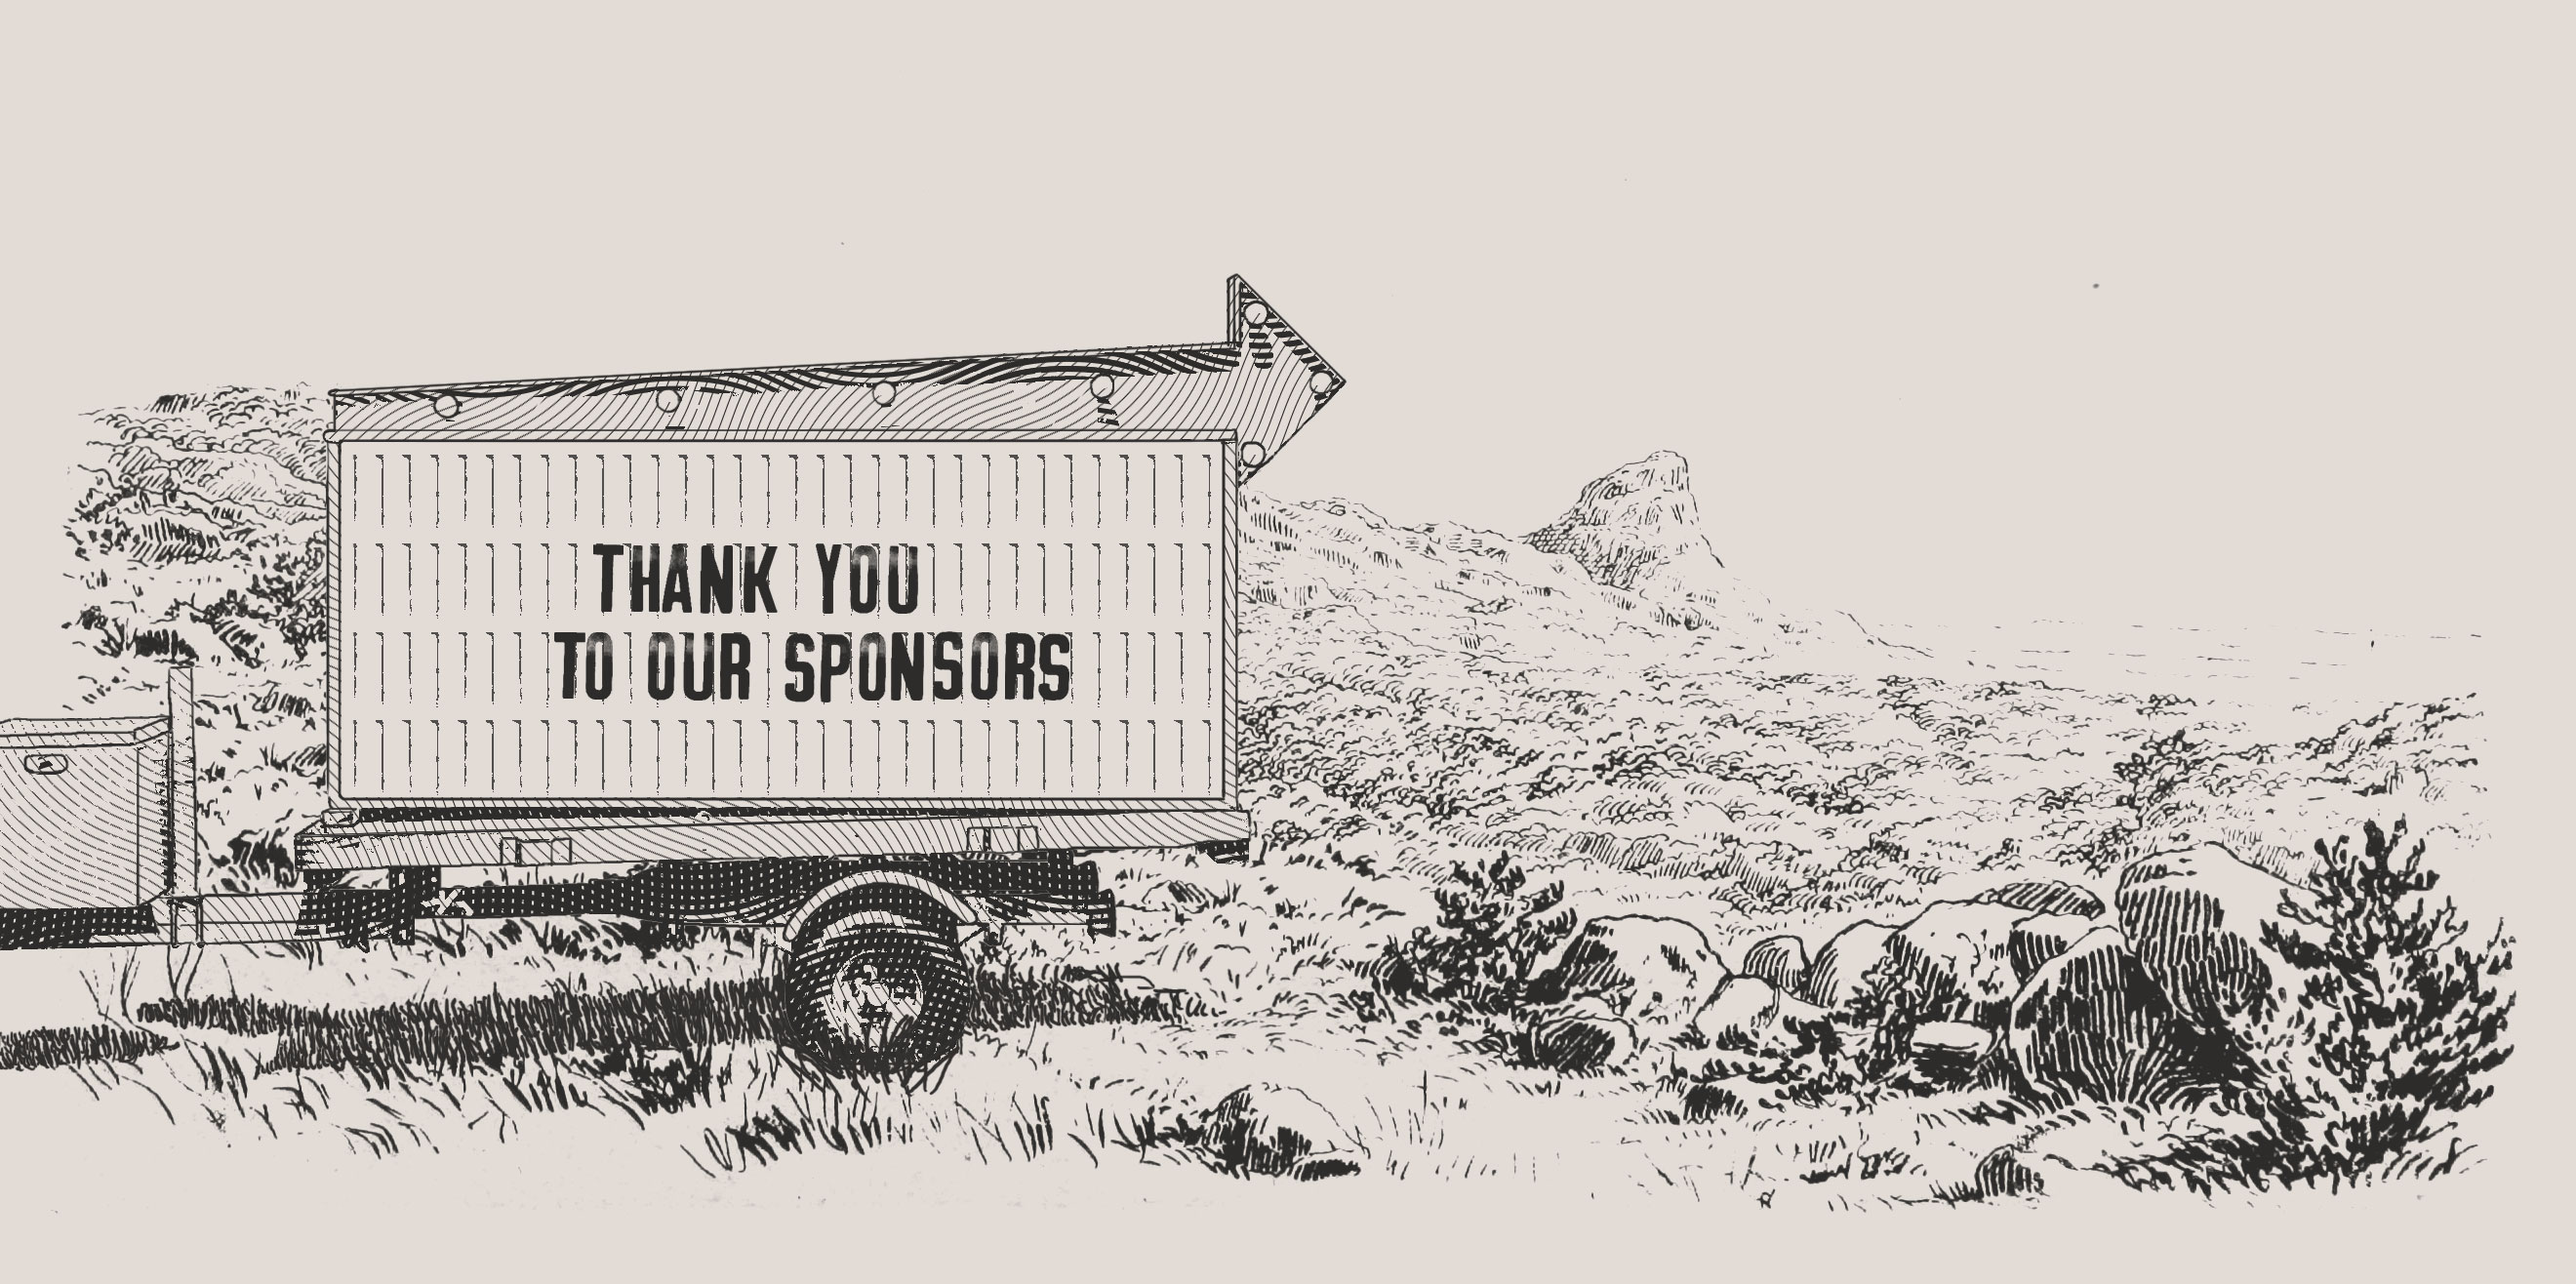
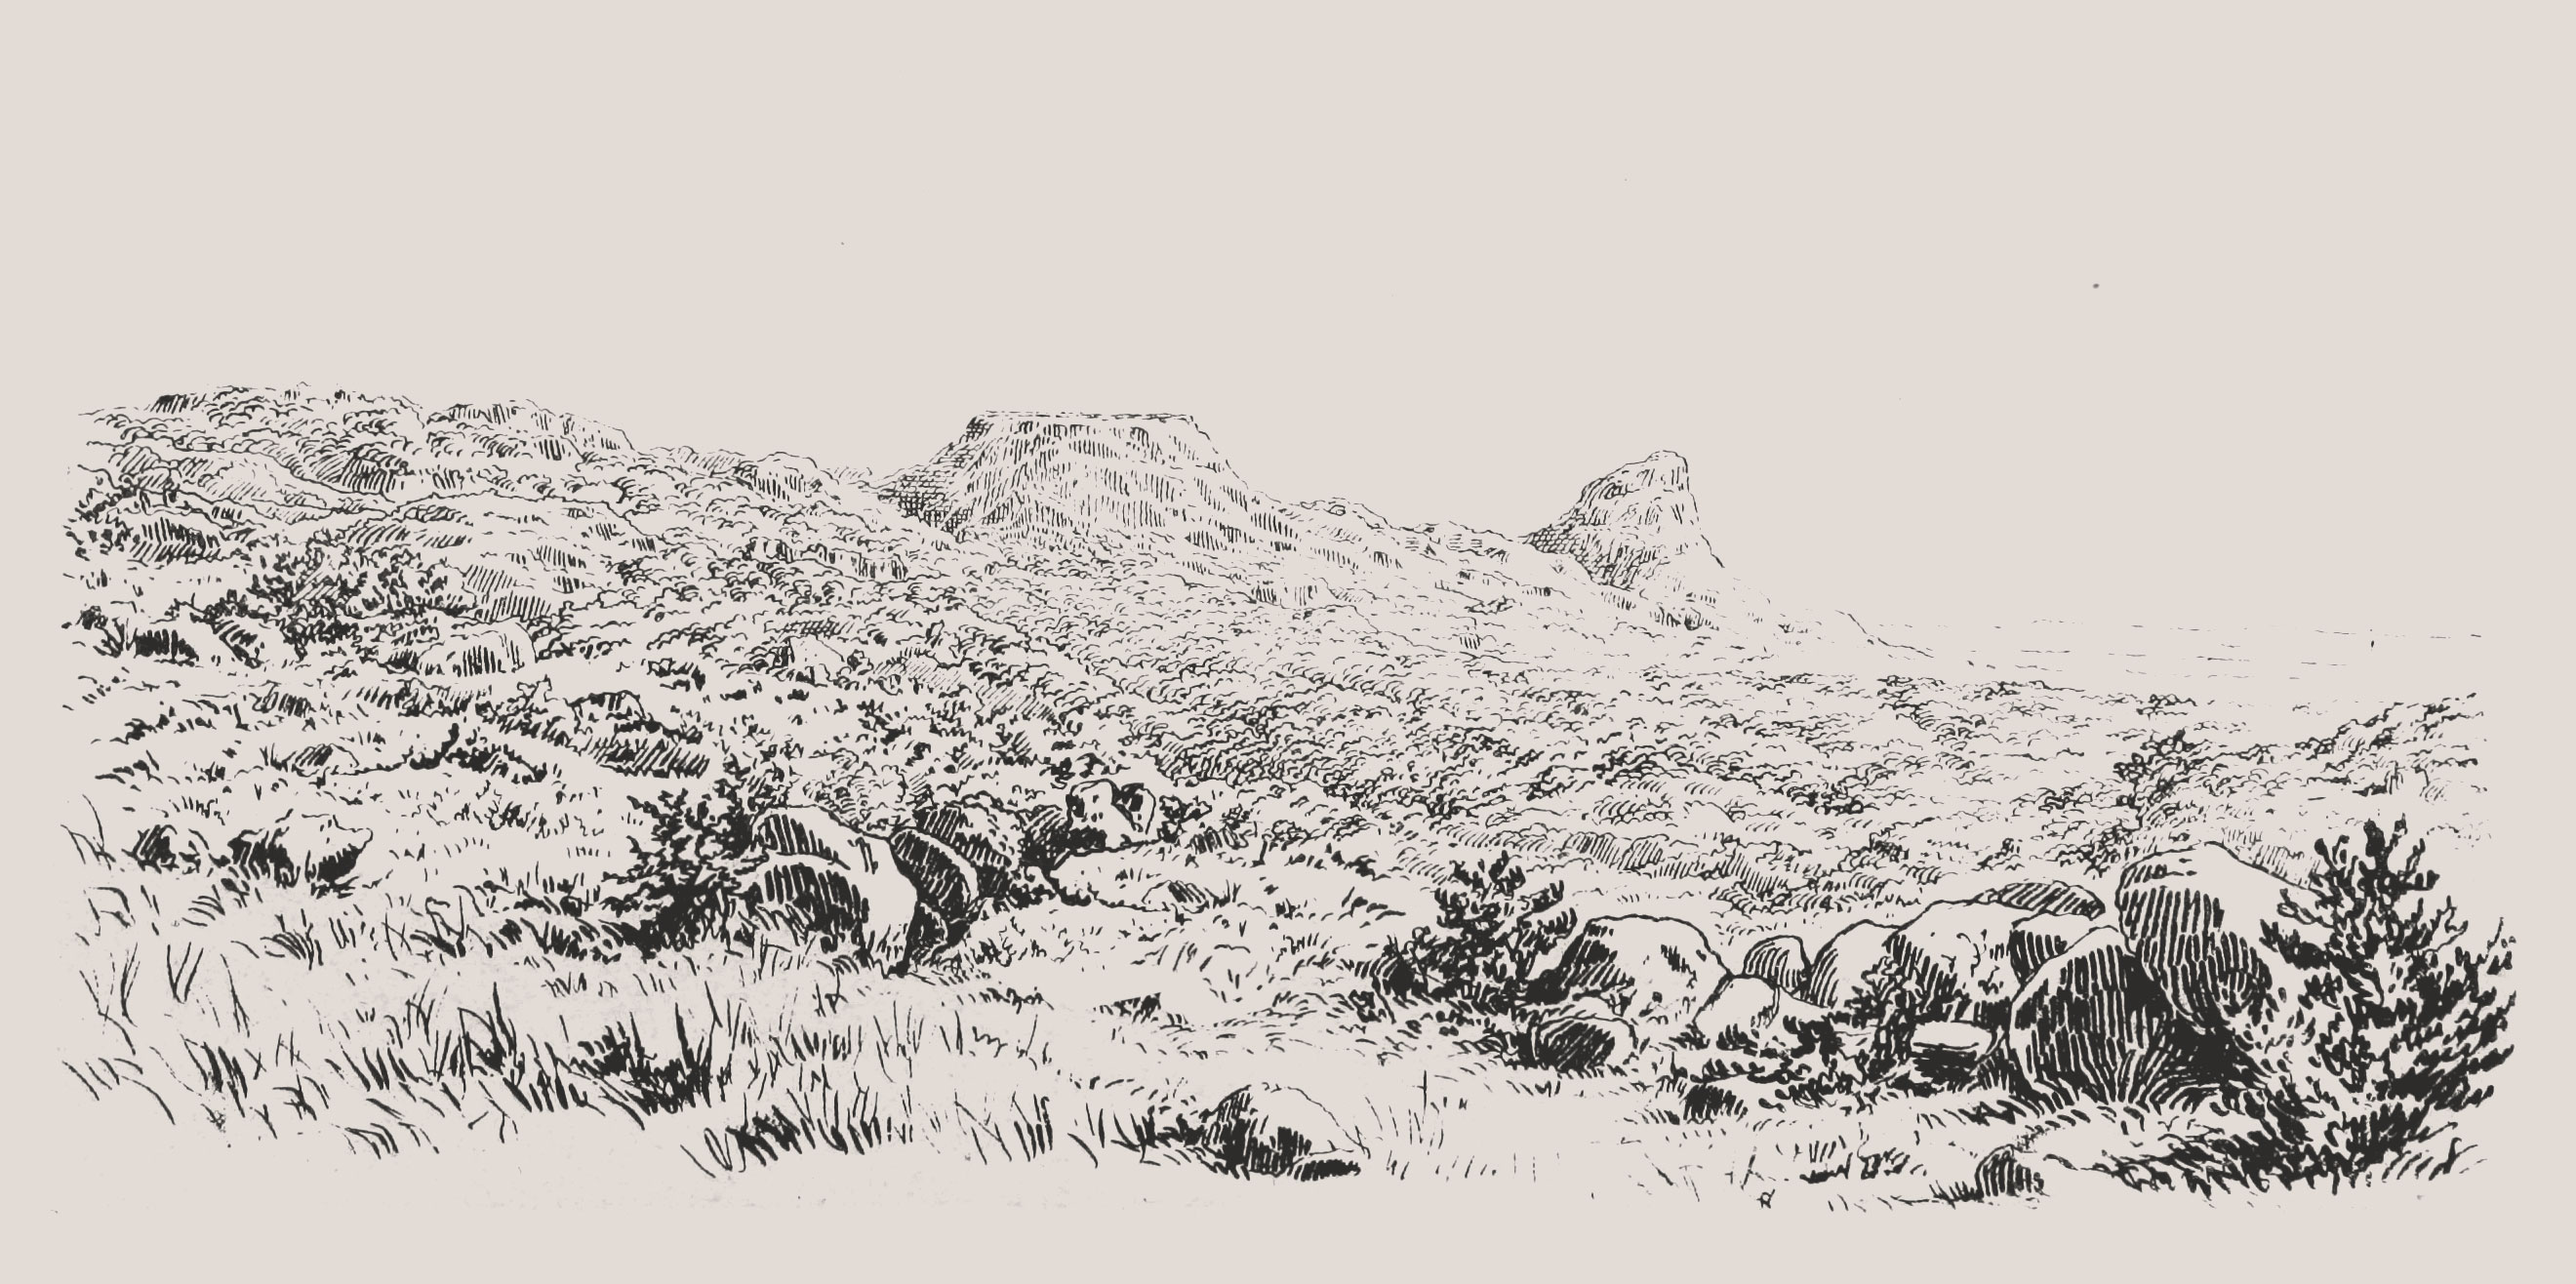
Adjust sponsors page to have separate trailer and make button responsive

Changed region(s): [[0.0, 0.2181, 0.528, 0.8723]]

diff --git a/src/components/Frame/Sponsors/index.js b/src/components/Frame/Sponsors/index.js
@@ -4,6 +4,7 @@ import Page from '../../Page';
 import Content from '../../Content';
 import SponsorGroup from './Components/SponsorGroup';
 import background from './sponsors-bg.jpg';
+import trailer from './thank-you-trailer.png';
 import rackspaceLogo from './logos/rackspace.png';
 import amazeeLogo from './logos/amazee-labs.png';
 import fourkitchensLogo from './logos/four-kitchens.png';
@@ -85,11 +86,14 @@ function Sponsors() {
 
   return (
     <Page name="sponsors" background={background} classes={['two-col']}>
-      <Content classes={['content--prospectus']}>
-        <Button
-          link="//2017.texascamp.org/sites/default/files/texas-camp-sponsor-prospectus.pdf"
-          text="Download Prospectus"
-        />
+      <Content classes={['content--body']}>
+        <img src={trailer} alt="thank you trailer" className="content--trailer" />
+        <div className={['content--prospectus']}>
+          <Button
+            link="//2017.texascamp.org/sites/default/files/texas-camp-sponsor-prospectus.pdf"
+            text="Download Prospectus"
+          />
+        </div>
       </Content>
       <Content classes={['content--aside']}>
         {sponsors.map(sponsor =>

diff --git a/src/components/Frame/Sponsors/_sponsors.scss b/src/components/Frame/Sponsors/_sponsors.scss
@@ -5,10 +5,28 @@
     padding-top: 5vw;
   }
 
+  .content--trailer {
+    margin: 5vw 0 5vw -8vw;
+    width: 60vw;
+    max-width: 60vw;
+  }
+
   .content--prospectus {
     position: absolute;
-    left: 22.5%;
-    top: 19.8%;
+    left: 7vw;
+    top: 26vw;
+
+    @include breakpoint($bp-frame-desktop) {
+      left: 14vw;
+    }
+
+    @include breakpoint(min-width 1050px) {
+      left: 19vw;
+    }
+
+    @include breakpoint(min-width 1400px) {
+      left: 22vw;
+    }
   }
 
   .content--aside {
